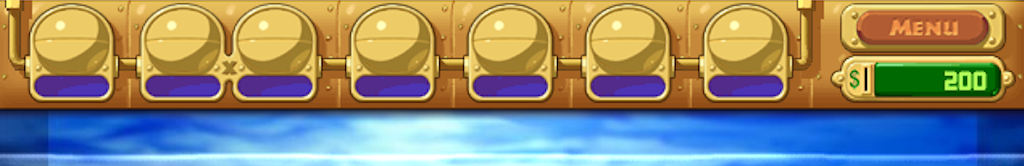
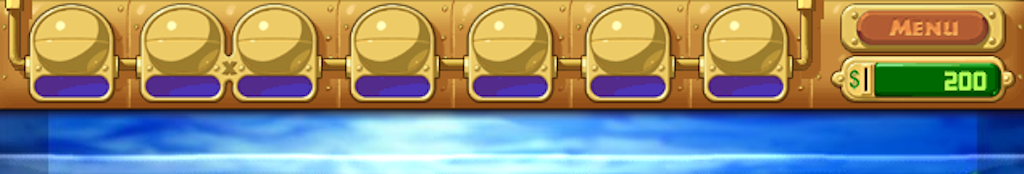
Add UI

diff --git a/src/graphics/Graphics.cpp b/src/graphics/Graphics.cpp
@@ -63,7 +63,11 @@ void Graphics::drawAquarium() {
     const string bgAssetPath = "assets/graphics/statics/aquarium_background.jpg";
     const string uiAssetPath = "assets/graphics/statics/aquarium_ui.png";
     drawImage(bgAssetPath, screenWidth / 2, screenHeight / 2);
-    drawImage(uiAssetPath, screenWidth / 2, 83);
+    drawImage(uiAssetPath, screenWidth / 2, 87);
+}
+
+void Graphics::drawCoinText(int value) {
+    drawText(to_string(value), 100, 200, 300, 45, 252, 48);
 }
 
 void Graphics::drawGuppy(int x, int y, int level, State state, int state_progress) {
@@ -210,9 +214,7 @@ void Graphics::handleInput() {
     if (!tapped_keys.empty()) {
         tapped_keys.clear();
     }
-    if (!clicked_targets.empty()) {
-        clicked_targets.clear();
-    }
+    clicked_target = -1;
 
     while(SDL_PollEvent(&event) != 0) {
         if (event.type == SDL_QUIT) {
@@ -233,12 +235,8 @@ void Graphics::handleInput() {
                         mouse_x <= get<1>(target) &&
                         mouse_y >= get<2>(target) &&
                         mouse_y <= get<3>(target)) {
-                        clicked_targets.insert(i);
+                        clicked_target = i;
                     }
-                }
-                /* If click event is not inside any registered target */
-                if (clicked_targets.empty()) {
-                    clicked_targets.insert(-1);
                 }
             }
         }
@@ -275,14 +273,14 @@ int Graphics::addClickTarget(int x_min, int x_max, int y_min, int y_max) {
 void Graphics::resetClickTargets() {
     if (!click_targets.empty()) {
         click_targets.clear();
-    }
-    if (!clicked_targets.empty()) {
-        clicked_targets.clear();
+        /* Screen is always a click target */
+        tuple<int, int, int, int> screen = make_tuple(0, screenWidth, 0, screenHeight);
+        click_targets.push_back(screen);
     }
 }
 
-const set<int>& Graphics::getClickedTargets() {
-    return clicked_targets;
+const int& Graphics::getClickedTarget() {
+    return clicked_target;
 }
 
 int Graphics::getMouseX() {

diff --git a/src/game/Game.cpp b/src/game/Game.cpp
@@ -10,6 +10,10 @@ screenWidth(gameScreenWidth),
 screenHeight(gameScreenHeight), 
 frameRate(gameFrameRate), 
 graphics(gameScreenWidth, gameScreenHeight),
+gameScreenXStart(0),
+gameScreenXEnd(gameScreenWidth),
+gameScreenYStart(200),
+gameScreenYEnd(gameScreenHeight - 100),
 coin(0),
 egg(0) {
     /* Initialize game graphics */
@@ -27,7 +31,7 @@ Game::~Game() {
 
 /* Initialize game state */
 void Game::initState() {
-    aquarium = new Aquarium(screenWidth, screenHeight - 60);
+    aquarium = new Aquarium(gameScreenXStart, gameScreenYStart, gameScreenXEnd, gameScreenYEnd);
     game_start_time = graphics.timeSinceStart();
 }
 
@@ -62,8 +66,9 @@ void Game::startGame() {
         LinkedList<Coin*>& coin_list = aquarium->getCoinList();
         vector<int> coin_click_targets;
 
-        /* Draw background */
+        /* Draw UI */
         graphics.drawAquarium();
+        graphics.drawCoinText(coin);
 
         /* Draw Guppy */
         for (int i = 0; i < guppy_list.getLength(); i++) {
@@ -123,18 +128,18 @@ void Game::startGame() {
         graphics.handleInput();
 
         /* Check mouse click events */
-        for (auto clicked_target : graphics.getClickedTargets()) {
+        int clicked_target = graphics.getClickedTarget();
+        if (clicked_target == 0) {
+            int x = graphics.getMouseX();
+            int y = graphics.getMouseY();
+            aquarium->createPellet(x, y);
+        } else {
             for (int i = 0; i < coin_click_targets.size(); i++) {
                 if (clicked_target == coin_click_targets[i]) {
                     coin += coin_list.get(i)->getValue();
                     aquarium->deleteCoin(coin_list.get(i));
+                    break;
                 }
-            }
-            /* Click event is outside any registered target */
-            if (clicked_target == -1) {
-                int x = graphics.getMouseX();
-                int y = graphics.getMouseY();
-                aquarium->createPellet(x, y);
             }
         }
 

diff --git a/src/graphics/Graphics.hpp b/src/graphics/Graphics.hpp
@@ -18,7 +18,7 @@ using namespace std::chrono;
 
 class Graphics {
 private:
-	const char* fontPath = "assets/fonts/OpenSans-Regular.ttf";
+	const char* fontPath = "assets/fonts/Oswald-Regular.ttf";
 	const int screenWidth, screenHeight;
 	int mouse_x, mouse_y;
 	
@@ -30,7 +30,7 @@ private:
     set<SDL_Keycode> pressed_keys;
     set<SDL_Keycode> tapped_keys;
     vector<tuple<int, int, int, int> > click_targets;
-    set<int> clicked_targets;
+    int clicked_target;
     bool quit;
 
     SDL_Surface* loadSurface(string path);
@@ -45,6 +45,7 @@ public:
 
 	/* High level drawing */
 	void drawAquarium();
+	void drawCoinText(int value);
 	void drawGuppy(int x, int y, int level, State state, int state_progress);
     void drawPiranha(int x, int y, State state, int state_progress);
     void drawSnail(int x, int y, State state, int state_progress);
@@ -85,7 +86,7 @@ public:
 	/* Mouse events handling */
 	int addClickTarget(int x_min, int x_max, int y_min, int y_max);
 	void resetClickTargets();
-	const set<int>& getClickedTargets();
+	const int& getClickedTarget();
 	int getMouseX();
 	int getMouseY();
 };

diff --git a/src/game/Game.hpp b/src/game/Game.hpp
@@ -16,6 +16,10 @@ class Game {
         /* Graphics */
         const int screenWidth;
         const int screenHeight;
+        const int gameScreenXStart;
+        const int gameScreenXEnd;
+        const int gameScreenYStart;
+        const int gameScreenYEnd;
         const double frameRate;
         Graphics graphics;
 
